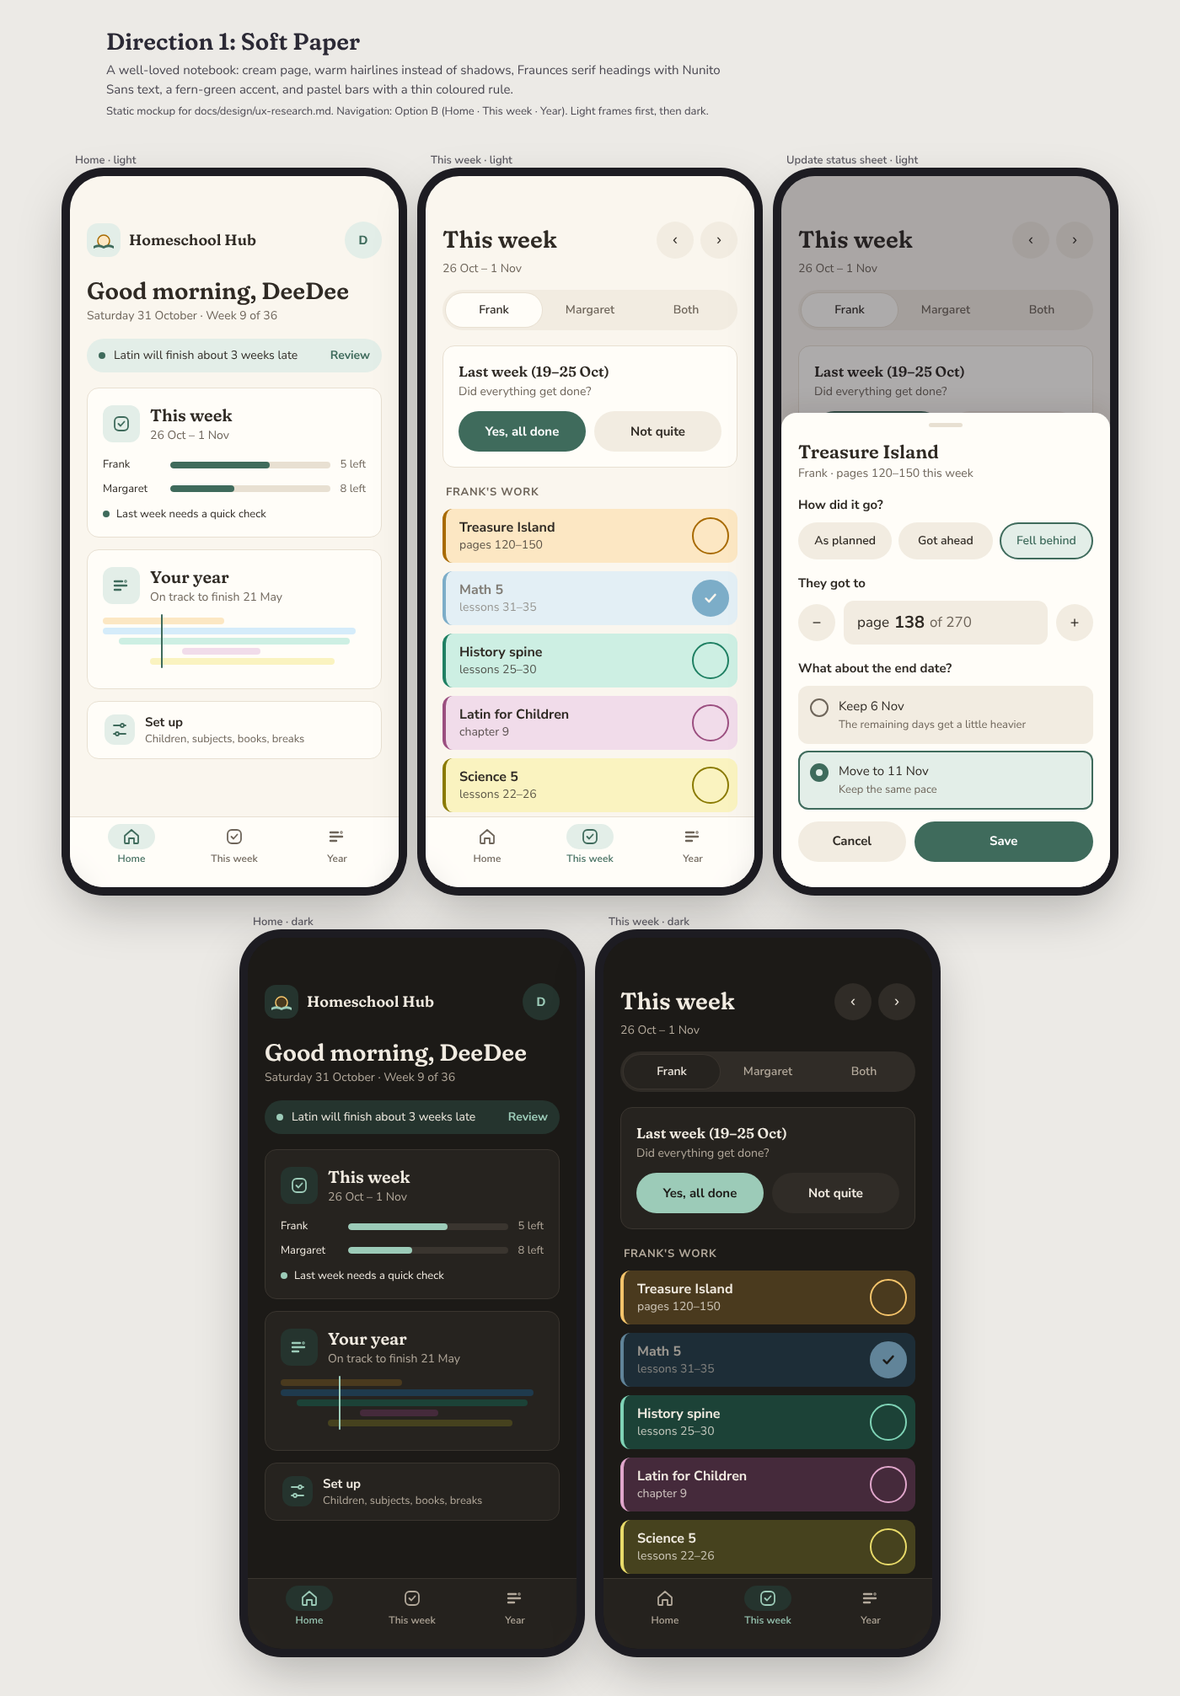
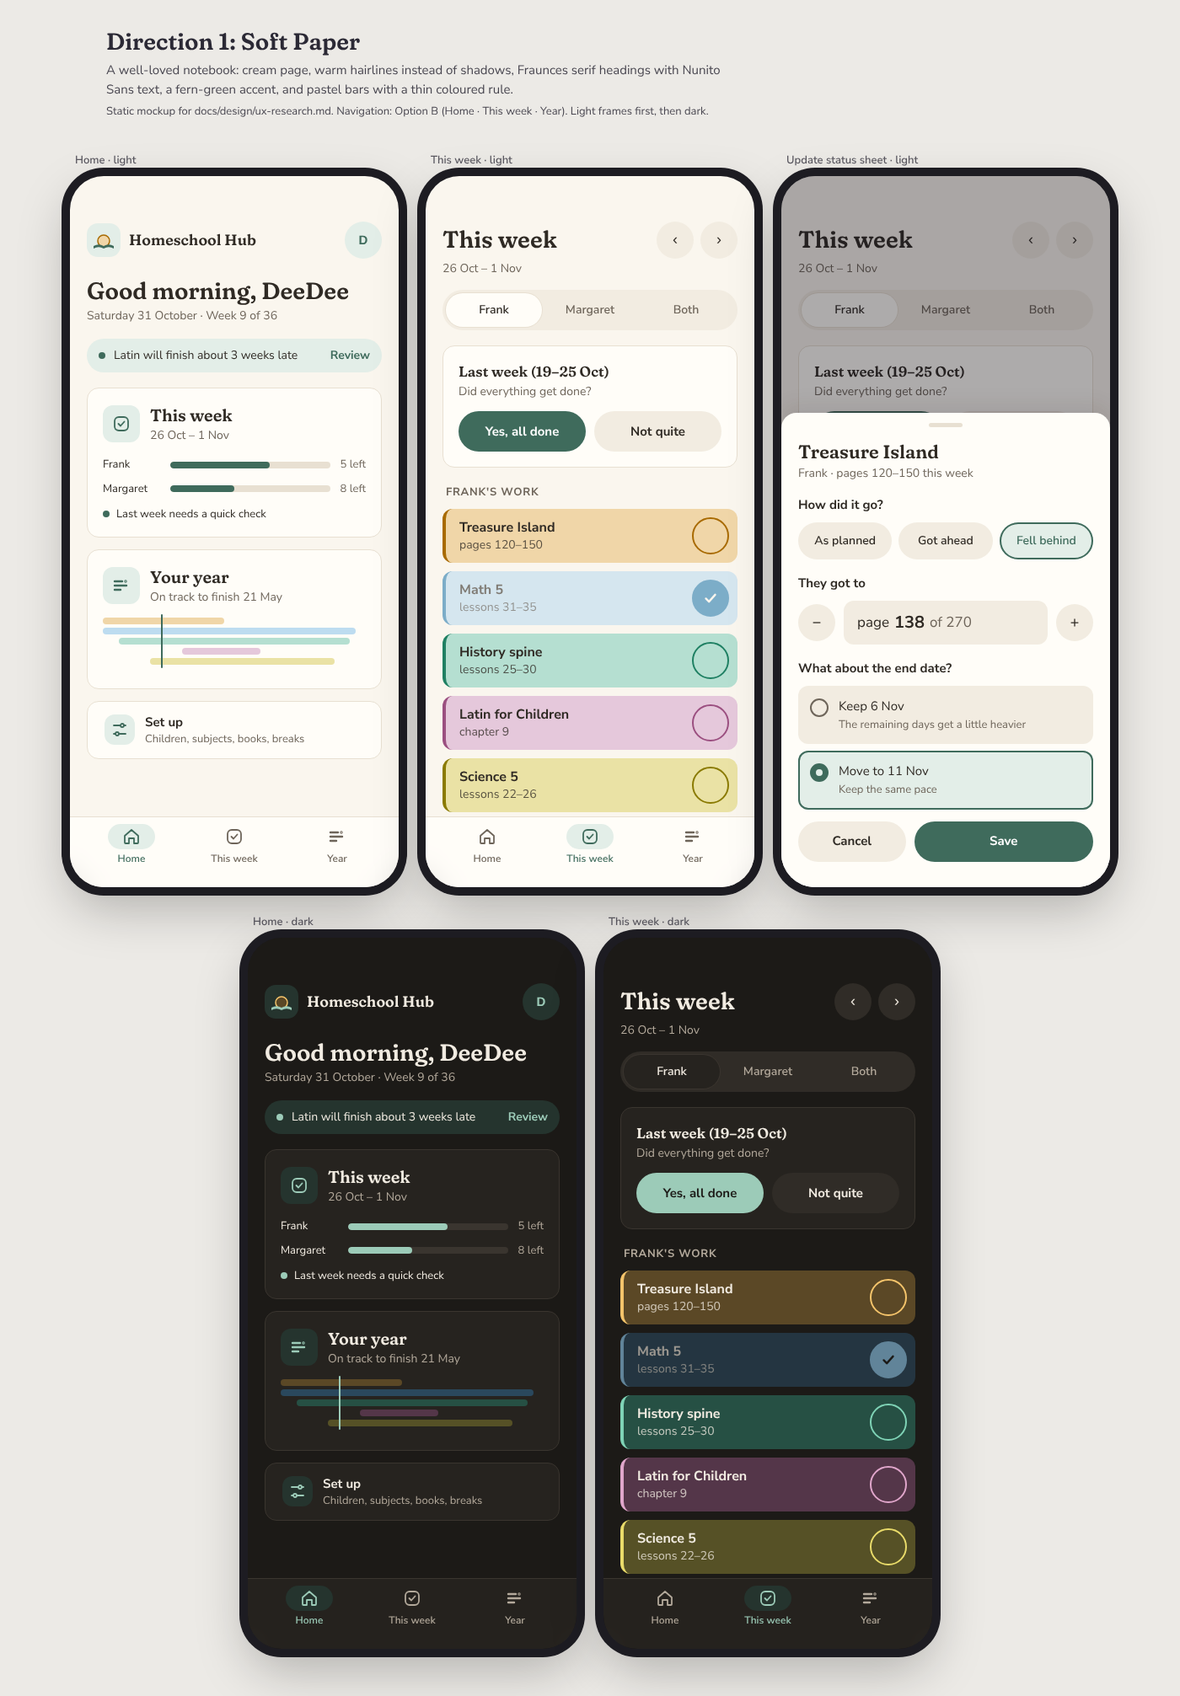
Docs: Soft Paper chosen; Sprint 8 tickets; stronger assignment colours
Will chose Soft Paper (pending DeeDee) with slightly stronger assignment colours: light fills mixed 14% toward their strong tone, dark 10%, all AA. Mockup updated and re-rendered. Sprint 8: tokens and fonts, themes, shared components, Home and navigation (Option B, provisional), pastel bars, the one-question check-in, timeline restyle, setup screens, first-run checklist, tester. Absorbs held S6b-02/03/11.

Claude-Session: https://claude.ai/code/session_013JPbkkRzufLobmfrz84fyw

Changed region(s): [[0.3686, 0.4312, 0.645, 0.4928], [0.3686, 0.2772, 0.645, 0.3388], [0.0921, 0.3388, 0.2764, 0.4004]]

diff --git a/docs/design/mockups/soft-paper.html b/docs/design/mockups/soft-paper.html
@@ -10,18 +10,18 @@
 <style>
 /* Static mockup: Homeschool Hub, direction "Direction 1: Soft Paper". Not app code. */
 .light {
-  --honey:#FCE7C3; --honey-s:#A86A00; --sky:#D5ECFA; --sky-s:#2A7DB0; --mint:#CDEFE3; --mint-s:#1F8063;
-  --butter:#FAF3C0; --butter-s:#8A7A00; --blue:#D6E2F5; --blue-s:#3F64A8; --coral:#FADBCB; --coral-s:#B4532A;
-  --lilac:#F1DCEA; --lilac-s:#9B4F80; --sage:#E3E6DD; --sage-s:#5F6B50;
+  --honey:#F0D6A8; --honey-s:#A86A00; --sky:#BDDCF0; --sky-s:#2A7DB0; --mint:#B5DFD1; --mint-s:#1F8063;
+  --butter:#EAE2A5; --butter-s:#8A7A00; --blue:#C1D0EA; --blue-s:#3F64A8; --coral:#F0C8B4; --coral-s:#B4532A;
+  --lilac:#E5C8DB; --lilac-s:#9B4F80; --sage:#D1D5C9; --sage-s:#5F6B50;
 --bg:#FAF6EE; --card:#FFFDF8; --raised:#F2ECE1; --ink:#2F2A24; --muted:#6E655A; --line:#E8E0D2;
 --accent:#3F6B5C; --accent-ink:#FFFFFF; --accent-soft:#E3EEE8; --tabbg:rgb(255 253 248 / .92);
 --r-card:14px; --r-bar:12px; --r-sheet:18px; --r-ico:12px; --bar-h:62px; --rule:4px; --card-border:1px solid #E8E0D2;
 --sh-card:none; --sh-sheet:0 -8px 24px rgb(60 40 20 / .10); --sh-seg:0 0 0 1px #E8E0D2;
 }
 .dark {
-  --honey:#4A3A1E; --honey-s:#F5C46B; --sky:#1F3A4D; --sky-s:#8FCBF0; --mint:#1C4237; --mint-s:#7FD3B6;
-  --butter:#46421E; --butter-s:#E9DB6A; --blue:#22314D; --blue-s:#9DB7EA; --coral:#4D2B1E; --coral-s:#F2A786;
-  --lilac:#452A3B; --lilac-s:#E0A6CB; --sage:#34372F; --sage-s:#B6C0A6;
+  --honey:#5B4826; --honey-s:#F5C46B; --sky:#2A485D; --sky-s:#8FCBF0; --mint:#265044; --mint-s:#7FD3B6;
+  --butter:#565126; --butter-s:#E9DB6A; --blue:#2E3E5D; --blue-s:#9DB7EA; --coral:#5E3728; --coral-s:#F2A786;
+  --lilac:#543649; --lilac-s:#E0A6CB; --sage:#41453B; --sage-s:#B6C0A6;
 --bg:#1C1A17; --card:#26231F; --raised:#302C27; --ink:#F1EBE1; --muted:#B3A99B; --line:#3A352F;
 --accent:#9CCBB8; --accent-ink:#1C1A17; --accent-soft:#25342E; --tabbg:rgb(38 35 31 / .94);
 --r-card:14px; --r-bar:12px; --r-sheet:18px; --r-ico:12px; --bar-h:62px; --rule:4px; --card-border:1px solid #3A352F;

diff --git a/docs/tickets/sprint-8-soft-paper/README.md b/docs/tickets/sprint-8-soft-paper/README.md
@@ -1,0 +1,24 @@
+# Sprint 8 — Soft Paper: the new look, Home and navigation, light and dark
+
+> **Status: approved, not started** (2026-10-31). Will chose **Soft Paper** ("Start on soft paper… these look way better than before. I would slightly increase opacity in the assignment colors."), pending a check with DeeDee. Starts after Sprint 7 passes its tester check. **Provisional until DeeDee confirms:** navigation Option B (Home · This week · Year), the names "This week" and "Year", one child at a time with a "Both" choice, and the logo placeholder. These are isolated in S8-04/S8-05 so they can change without redoing the rest.
+
+**Source:** `docs/DESIGN_DIRECTION.md`, `docs/design/ux-research.md` (Direction 1: Soft Paper; IA Option B), the mockup `docs/design/mockups/soft-paper.html` (and its `.png`), and Will's critiques. This sprint absorbs the held Sprint 6b tickets: S6b-11 → S8-04, S6b-02 → S8-05, S6b-03 → S8-06.
+
+**Soft Paper in one paragraph:** a well-loved notebook. Cream page `#FAF6EE`, card `#FFFDF8`, ink `#2F2A24`, secondary `#6E655A`, fern accent `#3F6B5C`, warm 1 px hairlines `#E8E0D2` instead of shadows; dark: warm charcoal `#1C1A17`, card `#26231F`, ink `#F1EBE1`, accent `#9CCBB8`. **Fraunces** (soft serif) for screen titles and greetings, **Nunito Sans** for everything else. Radius 14 px cards, 12 px bars, pills for chips and buttons. **Phosphor Light** icons. Gentle 200–260 ms motion. Subject pastels with a thin strong-colour left rule.
+
+**Assignment colours (Will: slightly more opacity):** the light fills are mixed 14% toward each subject's strong tone, the dark fills 10%; all text on them stays AA (ink ≥ 9:1, bar secondary ≥ 5.2:1, check ring ≥ 3:1 against its fill). The values are in the mockup's `:root` block and in S8-01.
+
+Each ticket uses the usual format. Build in order, one commit per ticket, each with `bash scripts/check.sh` green, and apply the screen tests in `DESIGN_DIRECTION.md`. Progress goes in `docs/progress/sprint-8.md`; before-and-after screenshots in `docs/progress/screens/sprint-8/`.
+
+| Order | Ticket | Depends on | Size |
+|-------|--------|------------|------|
+| 1 | [S8-01 — Soft Paper tokens, fonts and subject colours](S8-01-soft-paper-tokens-fonts-and-colours.md) | none | M |
+| 2 | [S8-02 — Light, dark and system themes](S8-02-light-dark-and-system-themes.md) | S8-01 | S |
+| 3 | [S8-03 — Shared components in the Soft Paper style](S8-03-shared-components.md) | S8-01 | M |
+| 4 | [S8-04 — Home page and navigation](S8-04-home-page-and-navigation.md) | S8-03 | M |
+| 5 | [S8-05 — This week as pastel bars](S8-05-this-week-as-pastel-bars.md) | S8-04 | M |
+| 6 | [S8-06 — Check in with one question, a check or Update status](S8-06-check-in.md) | S8-05 | M |
+| 7 | [S8-07 — The Year timeline in Soft Paper](S8-07-the-year-timeline.md) | S8-03 | M |
+| 8 | [S8-08 — Set up screens and forms in Soft Paper](S8-08-set-up-screens-and-forms.md) | S8-04 | M |
+| 9 | [S8-09 — First-run checklist and empty states](S8-09-first-run-and-empty-states.md) | S8-04, S8-08 | S |
+| 10 | [S8-10 — Tester pass: the new look](S8-10-tester-pass.md) | S8-01 to S8-09 | S |

diff --git a/docs/tickets/sprint-8-soft-paper/S8-01-soft-paper-tokens-fonts-and-colours.md b/docs/tickets/sprint-8-soft-paper/S8-01-soft-paper-tokens-fonts-and-colours.md
@@ -1,0 +1,26 @@
+# S8-01 — Soft Paper tokens, fonts and subject colours
+
+**Source:** Sprint 8 README; `design/ux-research.md` §4 (Soft Paper, shared subject pastels); the mockup `design/mockups/soft-paper.html`  
+**Depends on:** none  
+**Size:** M
+
+## Goal
+One set of design tokens defines the Soft Paper look in light and dark, with the fonts and the richer subject colours, so every screen can use them.
+
+## Context
+- Tokens live in `apps/web/src/styles/tokens.css` / `tokens.theme.css` (Tailwind v4, shadcn `base-nova`); `styles.css` sets `color-scheme: light`. The timeline palette has its own tokens (T-01, T-01b) and the subject swatch picker uses them.
+
+## Steps
+1. Add Soft Paper tokens as CSS variables mapped to the shadcn/Tailwind names (background, card, foreground, muted, primary = fern, border = hairline, ring, radius 14 px, bar radius 12 px), with a dark set under `[data-theme="dark"]` and `prefers-color-scheme: dark` (S8-02 switches them).
+2. Self-host the fonts for the PWA (`@fontsource-variable/fraunces`, `@fontsource-variable/nunito-sans` or the non-variable packages): Fraunces for page titles and greetings, Nunito Sans for body and controls.
+3. Subject colours: the eight subject hues get a **fill**, a **strong** tone and dark equivalents. Light fills (14% toward strong): honey `#F0D6A8`, sky `#BDDCF0`, mint `#B5DFD1`, butter `#EAE2A5`, blue `#C1D0EA`, coral `#F0C8B4`, lilac `#E5C8DB`, sage `#D1D5C9`; strong tones and dark fills (10% toward strong) as in the mockup. Map the existing subject palette swatches onto these so current subjects keep their identity (record the mapping); the timeline bars use the same fills.
+4. Extend the contrast test (`apps/web/test/css-contrast.test.ts`) to check ink and bar text on every fill in both themes (AA), and the strong tone against its fill (3:1).
+
+## Done when
+- Tokens exist for both themes; the fonts load offline; subject fills and strong tones come from one place; contrast tests pass in both themes.
+
+## Tests
+- The contrast test for every pair; existing palette tests updated (say which).
+
+## Out of scope
+- Restyling components (S8-03) and screens.

diff --git a/docs/tickets/sprint-8-soft-paper/S8-04-home-page-and-navigation.md b/docs/tickets/sprint-8-soft-paper/S8-04-home-page-and-navigation.md
@@ -1,0 +1,25 @@
+# S8-04 — Home page and navigation
+
+**Source:** Was S6b-11. Will: "a home page that gives us a nice logo [and] the options to go to schedule or logging pages. Maybe settings too… a way to easily and clearly return home… maybe direct from schedule to logging and vice versa." `design/ux-research.md` §3 Option B (provisional until DeeDee confirms).  
+**Depends on:** S8-03  
+**Size:** M
+
+## Goal
+The app opens on a Home page with the logo, and a bottom bar with **Home · This week · Year** (icons and labels) gives one tap home and one tap between logging and planning.
+
+## Steps
+1. **Home** (`/`): logo and "Homeschool Hub"; greeting with the date and "Week N of M" when a school year is known; the briefing line when something needs attention (with a link); a **This week** card (per child: a progress line and "N left", plus "Last week needs a quick check" when relevant); a **Your year** card (a tiny timeline thumbnail and "On track to finish {date}" when known); a **Set up** row ("Children, subjects, books, breaks").
+2. **This week** moves to `/week` (today's This Week page); **Year** is the timeline at `/year`. Old routes (`/timeline`, `/schedule/...`) redirect.
+3. **Set up** (`/setup`): one list of Children, Subjects, Assignments, Days off and breaks, Events, with a one-line description each.
+4. **Settings and Sign out** behind the family avatar button on Home (Family settings, Appearance from S8-02, Sign out).
+5. Remove the old five-tab bar. Keep the names and the tab set in one config so DeeDee's choice can change them in one place.
+6. Logo: a simple placeholder mark (open book with a rising sun, as in the mockup) and wordmark in SVG.
+
+## Done when
+- From any screen, Home is one tap away; This week and Year switch in one tap; every old link still lands on the right screen; Set up lists every setup screen.
+
+## Tests
+- Web: routes and redirects; the tab bar's active state; Home's cards with and without briefing and check-in prompts; the avatar menu. Tester: the five-second test.
+
+## Out of scope
+- The first-run checklist (S8-09).

diff --git a/docs/tickets/sprint-8-soft-paper/S8-06-check-in.md b/docs/tickets/sprint-8-soft-paper/S8-06-check-in.md
@@ -1,0 +1,23 @@
+# S8-06 — Check in with one question, a check or Update status
+
+**Source:** Was S6b-03. Will: "a check on them that says 'completed' or 'update status'. Update status can have a small box pop up… whether they got ahead or behind and how they want to handle that." Mockup "This week" and "Update status sheet".  
+**Depends on:** S8-05  
+**Size:** M
+
+## Goal
+Last week's check-in is one question at the top of This week, with a check per bar and a small Update status sheet for anything different.
+
+## Steps
+1. While last week isn't checked in, a card at the top: "Last week (19–25 Oct) · Did everything get done?" with **Yes, all done** (saves the week as planned) and **Not quite** (shows last week's bars).
+2. On last week's bars, the round check marks a bar done; tapping the bar opens **Update status** (bottom sheet): "How did it go?" As planned / Got ahead / Fell behind; "They got to {page/lesson} [−] N of total [+]"; "What about the end date?" Keep {date} ("The remaining days get a little heavier") or Move to {date} ("Keep the same pace"), with the dates computed; Cancel / Save.
+3. Save sends the week once (check-in API: positions and modes; reaching the total sends mode null). "Add progress on something else" stays as a quiet link.
+4. Remove the old card's chips, slider and stepper rows (T-09) and their tests, replaced by tests for the new flow.
+
+## Done when
+- One tap on "Yes, all done" checks in the week; "Fell behind, got to p. 138, move to 11 Nov" saves pushEndDate and the end date moves.
+
+## Tests
+- Web: both answers; the sheet's three outcomes with each end-date choice; the computed Keep/Move dates; finishing; Add progress. API unchanged.
+
+## Out of scope
+- Checking in mid-week.

diff --git a/docs/ROADMAP.md b/docs/ROADMAP.md
@@ -91,8 +91,9 @@ Sprint 3a (`tickets/sprint-3a-setup/`) builds the first three.
 - [ ] **Custom zoom views** (Sprint 7). A quiet Edit at the end of the zoom row: hide Fall, Spring or This month, and add, rename, delete and reorder the family's own views (for example terms), up to 6 including Year.
 - [ ] **Year rollover and sibling reuse.** Start next year from this one, or copy a plan to a younger child, with the dates shifted.
 
-### UI refinement and dark mode (Sprint 8, after Sprint 7)
+### UI refinement and dark mode (Sprint 8, after Sprint 7): Soft Paper chosen
 Added by Will on 2026-10-31: the UI isn't up to modern standards yet. Done once the core features stop changing, so nothing is restyled twice; accounts and hosting hardening follow it.
+- **Chosen 2026-10-31:** Soft Paper (`design/ux-research.md`), with slightly stronger assignment colours; tickets in `tickets/sprint-8-soft-paper/`. Navigation Option B is provisional until DeeDee confirms.
 - **Design brief:** calm and airy, with the soft, rounded shapes of a warm and friendly app; pastel colours; very clean and tidy.
 - [ ] **Audit and direction first:** screenshot every screen at phone and desktop widths, critique against a modern standard, and show 2–3 visual directions on one page for Will and DeeDee to choose from before code changes.
 - [ ] **One design system:** tokens for type, spacing, radius, elevation and colour (light and dark), and shared components (buttons, fields, chips, cards, sheets, lists) in place of per-screen CSS.

diff --git a/docs/tickets/sprint-8-soft-paper/S8-03-shared-components.md b/docs/tickets/sprint-8-soft-paper/S8-03-shared-components.md
@@ -1,0 +1,22 @@
+# S8-03 — Shared components in the Soft Paper style
+
+**Source:** `design/ux-research.md` §5 "Components the design system needs"  
+**Depends on:** S8-01  
+**Size:** M
+
+## Goal
+Buttons, fields, chips, cards, sheets, list rows and segmented controls come from one shared set in the Soft Paper style, replacing per-screen CSS.
+
+## Steps
+1. Build or restyle shared components (on Base UI / shadcn where available): **Button** (primary fern pill, secondary cream pill, quiet text), **Field** (text, number, select, date with a calm calendar popover where the native one is ugly), **Chip** (pill, 44 px), **Card** (cream, 14 px, hairline), **Sheet** (`ResponsiveSheet` restyled: bottom sheet with a grab handle on phones), **List row** (title, one-line description, chevron), **Segmented control** (Frank / Margaret / Both).
+2. Add Phosphor icons (`@phosphor-icons/react`, Light weight) for navigation and list rows.
+3. Move existing screens onto these components where it's a like-for-like swap; leave layout changes to their own tickets. Remove CSS that becomes unused.
+
+## Done when
+- Every button, field and chip on existing screens uses the shared components; no screen-specific button or field styles remain; 44 px targets hold.
+
+## Tests
+- Web: component tests (variants, disabled, focus); existing screen tests pass with label-based queries. The tap-target script passes.
+
+## Out of scope
+- New screens and layouts (S8-04 onward).

diff --git a/docs/tickets/sprint-8-soft-paper/S8-05-this-week-as-pastel-bars.md b/docs/tickets/sprint-8-soft-paper/S8-05-this-week-as-pastel-bars.md
@@ -1,0 +1,24 @@
+# S8-05 — This week as pastel bars
+
+**Source:** Was S6b-02. Will: "I liked the colored bars… Maybe they should each be a button." Mockup "This week".  
+**Depends on:** S8-04  
+**Size:** M
+
+## Goal
+This week shows each child's work as Soft Paper pastel bars, one per assignment, with a child switch.
+
+## Steps
+1. Header: "This week", the dates, and previous/next week buttons.
+2. A segmented control with each active child and "Both" (shown when there is more than one child; default: the first child, remembered on the device).
+3. Under "{Child}'s work", one bar per assignment with work that week: the subject fill with a thin strong left rule, title, the week's range in the family's units, and a round **check** on the right (S8-06 wires it). "Both" groups bars under each child's name. Events for that week appear as one quiet line each.
+4. Tapping a bar's body opens its adjustment (current or coming week, S6-03) or its Update status (last week, S8-06).
+5. A child with nothing that week: "Nothing planned this week."
+
+## Done when
+- The demo family's week shows bars per child with ranges, the switch works, and nothing on the page is a number the family didn't enter.
+
+## Tests
+- Web: bars per child in lane order with ranges; the switch and "Both"; events; empty child; accessible names ("Treasure Island, pages 120–150").
+
+## Out of scope
+- The check-in behaviour (S8-06).

diff --git a/docs/DESIGN_DIRECTION.md b/docs/DESIGN_DIRECTION.md
@@ -30,6 +30,10 @@ Before a screen ships, it should pass these checks (the tester includes them in 
 - **Empty state:** what does a brand-new family see here?
 - **Phone first:** does it work one-handed at 360 px, with 44 px targets and nothing scrolling sideways?
 
+## Chosen look (2026-10-31)
+
+**Soft Paper** (`design/ux-research.md`, Direction 1): a well-loved notebook. Cream page, warm hairlines instead of shadows, Fraunces serif titles with Nunito Sans text, a fern-green accent, Phosphor Light icons, and pastel subject bars with a thin coloured rule (slightly stronger than first mocked, at Will's request). Light and dark. Navigation Option B (Home · This week · Year) is provisional until DeeDee confirms. Built in Sprint 8.
+
 ## How this changes the plan
 
 - **Sprint 6b** splits in two. The behaviour fixes that don't depend on a visual style go ahead now: the effort table off This Week, the simpler edit bar, the soft bar cap, the pace check, subjects from the form, the empty calendar, tighter bar spacing. The parts that *are* the new look (Home and navigation, This Week's pastel bars, the Completed / Update status check-in) wait for Will's feedback on the UX research, so they're built once, in the chosen style.

diff --git a/docs/tickets/sprint-8-soft-paper/S8-02-light-dark-and-system-themes.md b/docs/tickets/sprint-8-soft-paper/S8-02-light-dark-and-system-themes.md
@@ -1,0 +1,22 @@
+# S8-02 — Light, dark and system themes
+
+**Source:** ROADMAP.md, "UI refinement and dark mode"; Will: follow the device by default with a Light / Dark / System choice  
+**Depends on:** S8-01  
+**Size:** S
+
+## Goal
+The app follows the device's light or dark setting by default, and Settings offers Light, Dark or System, remembered on that device.
+
+## Steps
+1. Remove the global `color-scheme: light` lock; set `color-scheme` from the theme so native fields draw correctly in both.
+2. A theme setting (System default) stored in `localStorage` (wrapped in try/catch; falls back to System), applied as `data-theme` on `<html>` before first paint to avoid a flash.
+3. Add an **Appearance** row (Light / Dark / System) to Settings.
+
+## Done when
+- With the device in dark mode the app is dark; choosing Light or Dark overrides it and survives a reload; no white flash on load in dark mode.
+
+## Tests
+- Web: the setting applies `data-theme`; System follows a mocked `prefers-color-scheme`; storage failure falls back to System.
+
+## Out of scope
+- Per-family theme sync.

diff --git a/docs/tickets/sprint-8-soft-paper/S8-07-the-year-timeline.md b/docs/tickets/sprint-8-soft-paper/S8-07-the-year-timeline.md
@@ -1,0 +1,23 @@
+# S8-07 — The Year timeline in Soft Paper
+
+**Source:** `design/ux-research.md` §4 Soft Paper "Bars" and §5 "Year"  
+**Depends on:** S8-03  
+**Size:** M
+
+## Goal
+The Year timeline uses the Soft Paper look in both themes without changing how it works.
+
+## Steps
+1. Bars use the subject fills (S8-01) with rounded ends and a 1 px strong outline at 40% opacity; the All subjects strip uses ink at low opacity.
+2. Today is a dotted fern line, not red; axis labels in Nunito Sans secondary; lane names in ink.
+3. The edit bar becomes a bottom sheet in the Soft Paper style (Start, End, Copy, More), keeping S6b-05's behaviour.
+4. Dark mode: the dark fills and strong tones; check outside names and the soft cap still read.
+
+## Done when
+- The timeline matches the direction in both themes; drag, zoom, the edit bar and custom views behave as before.
+
+## Tests
+- Existing timeline tests pass; contrast for labels on fills in both themes; before/after screenshots.
+
+## Out of scope
+- New timeline features.

diff --git a/docs/tickets/sprint-8-soft-paper/S8-09-first-run-and-empty-states.md b/docs/tickets/sprint-8-soft-paper/S8-09-first-run-and-empty-states.md
@@ -1,0 +1,21 @@
+# S8-09 — First-run checklist and empty states
+
+**Source:** `DESIGN_DIRECTION.md` point 6 (no dead ends for a new family)  
+**Depends on:** S8-04, S8-08  
+**Size:** S
+
+## Goal
+A brand-new family sees a short getting-started checklist on Home, and every empty screen says what to do next.
+
+## Steps
+1. Home shows, until done: Add your children → Add subjects → Add your books and lessons → Set your year's breaks, each a row that opens the right screen and ticks itself when done. It disappears when all are done (and can be dismissed).
+2. Empty states on This week, Year, and each setup list: one friendly line and the one button that fixes it.
+
+## Done when
+- A new family can go from sign-in to a planned year by following Home's checklist without visiting anything else.
+
+## Tests
+- Web: the checklist's steps tick as data appears; dismiss; each empty state.
+
+## Out of scope
+- Sample data.
